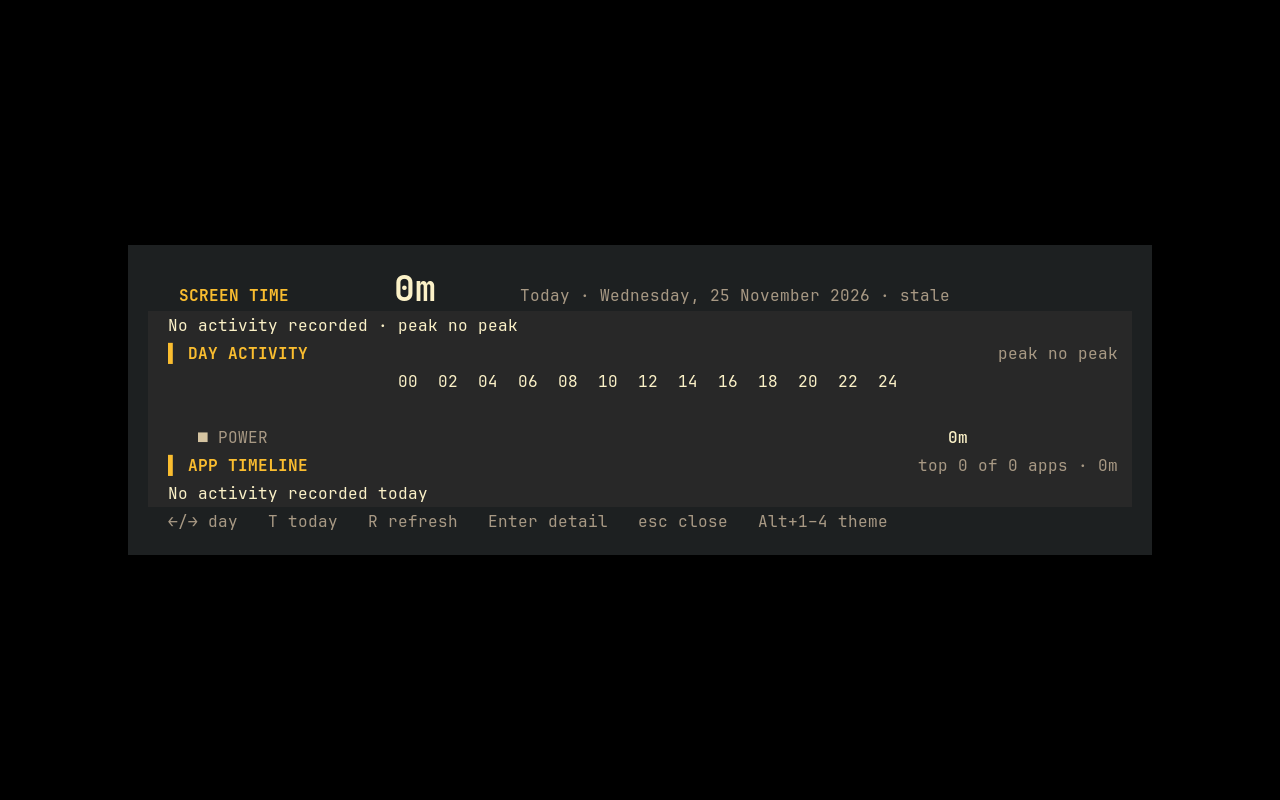
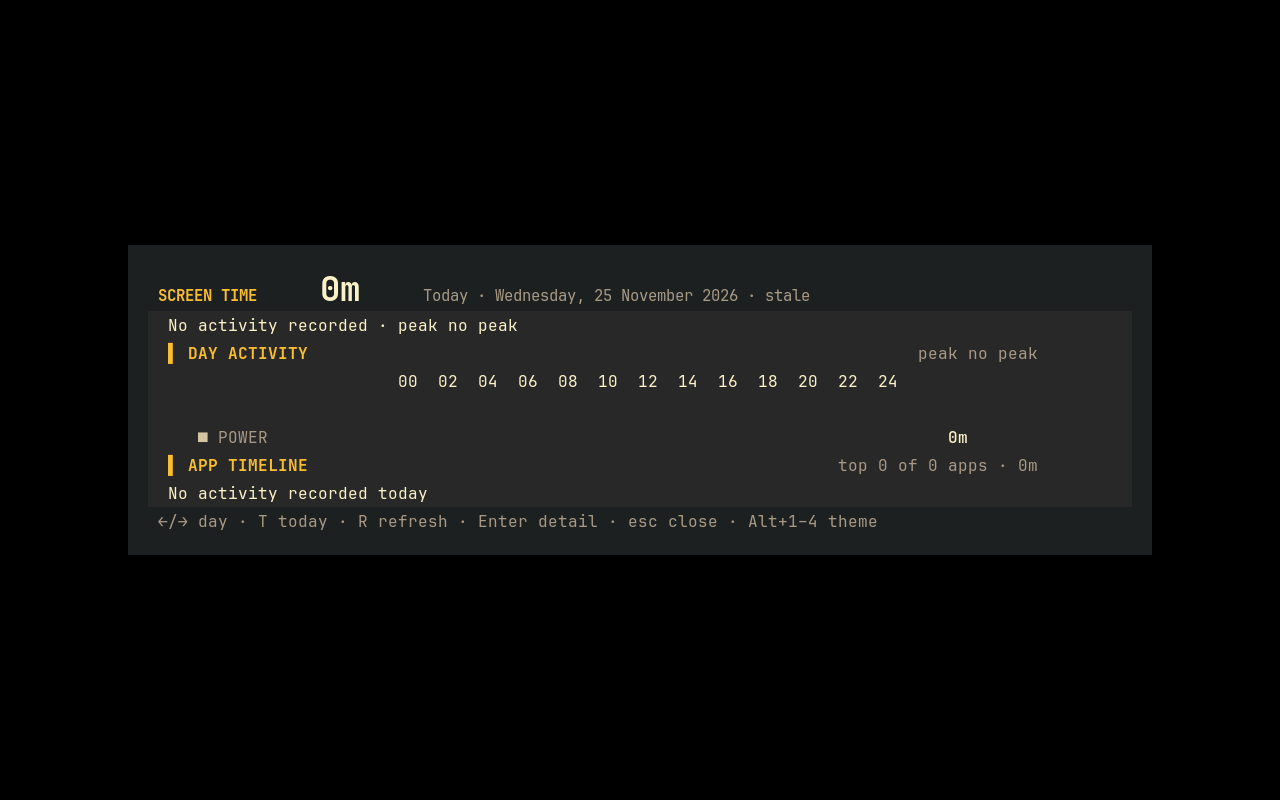
feat(ui): render Screen Time chrome with the shared UI kit

diff --git a/crates/screen-time/src/render.rs b/crates/screen-time/src/render.rs
@@ -3,7 +3,7 @@ use crate::sessions::{display_label, display_name};
 use crate::theme::Theme;
 use crate::timeutil::{self, SLOT_COUNT};
 use crate::view::{APP_PAGE_SIZE, AppRow, DayView, DetailView, OtherRow, TOP_APPS};
-use rofi_core::Category;
+use rofi_core::{Category, ui};
 
 const NAME_WIDTH: usize = 16;
 const PREFIX_WIDTH: usize = 24;
@@ -185,10 +185,9 @@ pub(crate) fn render_main_with_theme(view: &DayView, mode: OutputMode, theme: &T
         format!(" No activity recorded · peak {peak}")
     };
     if mode == OutputMode::Rofi {
-        // The message widget measures mixed font sizes independently of list rows.
-        out.push_str(&format!(
-            "\0message\x1f <span size=\"{}pt\">{title}</span>    {total_line}    <span size=\"{}pt\">{date}</span>\n",theme.font_size,theme.font_size
-        ));
+        let meta = format!("{relative}{long_date}{stale}");
+        let header = ui::header_inline("SCREEN TIME", &total, &meta, theme);
+        out.push_str(&format!("\0message\x1f{header}\n"));
         let extra = usize::from(show_other || list_slots == 0);
         // The Rofi main view omits the three 4pt spacer rows used by plain
         // output. Six fixed rows + app rows + one footer row fit five apps.
@@ -307,22 +306,22 @@ pub(crate) fn render_main_with_theme(view: &DayView, mode: OutputMode, theme: &T
     if mode != OutputMode::Rofi {
         emit_spacer(&mut out, mode);
     }
+    let mut keys = vec![
+        ("←/→", "day"),
+        ("T", "today"),
+        ("R", "refresh"),
+        ("Enter", "detail"),
+        ("esc", "close"),
+    ];
+    if mode == OutputMode::Rofi {
+        if paginated {
+            keys.insert(1, ("Alt+↓/↑", "page"));
+        }
+        keys.push(("Alt+1–4", "theme"));
+    }
     emit(
         &mut out,
-        &format!(
-            " {}",
-            role_span(
-                if mode == OutputMode::Rofi && paginated {
-                    "←/→ day   Alt+↓/↑ page   T today   R refresh   Enter detail   esc close   Alt+1–4 theme"
-                } else if mode == OutputMode::Rofi {
-                    "←/→ day   T today   R refresh   Enter detail   esc close   Alt+1–4 theme"
-                } else {
-                    "←/→ day   T today   R refresh   Enter detail   esc close"
-                },
-                &theme.muted,
-                mode,
-            )
-        ),
+        &footer_hint(&keys, theme, mode),
         RowMeta::NonSelectable,
         mode,
     );
@@ -801,23 +800,22 @@ pub(crate) fn render_detail_with_theme(
     }
     let trend_end = body.lines().count() - 1;
     emit_spacer(&mut body, mode);
+    let mut keys = vec![("←/→", "day"), ("Backspace", "back"), ("Esc", "close")];
+    if mode == OutputMode::Rofi {
+        keys.push(("Alt+1–4", "theme"));
+    }
     emit(
         &mut body,
-        if mode == OutputMode::Rofi {
-            " ←/→ day   Backspace back   Esc close   Alt+1–4 theme"
-        } else {
-            " ←/→ day   Backspace back   Esc close"
-        },
+        &footer_hint(&keys, theme, mode),
         RowMeta::App("__back__".to_owned()),
         mode,
     );
 
     if mode == OutputMode::Rofi {
-        let font_size = theme.font_size;
         let lines = body.lines().count();
+        let header = ui::header_inline(&label, &total, &subtitle, theme);
         format!(
-            "\0message\x1f <span size=\"{font_size}pt\">{title}</span>  <span weight=\"700\">{total}</span>  <span size=\"{font_size}pt\" foreground=\"{}\">{subtitle}</span>\n\0theme\x1flistview {{ lines: {lines}; }}\n\0use-hot-keys\x1ftrue\n\0markup-rows\x1ftrue\n\0no-custom\x1ftrue\n\0active\x1f{activity_start}-{activity_end},{burst_start}-{burst_end},{trend_start}-{trend_end}\n\0keep-selection\x1ftrue\n\0new-selection\x1f{}\n{body}",
-            theme.muted,
+            "\0message\x1f{header}\n\0theme\x1flistview {{ lines: {lines}; }}\n\0use-hot-keys\x1ftrue\n\0markup-rows\x1ftrue\n\0no-custom\x1ftrue\n\0active\x1f{activity_start}-{activity_end},{burst_start}-{burst_end},{trend_start}-{trend_end}\n\0keep-selection\x1ftrue\n\0new-selection\x1f{}\n{body}",
             lines - 1
         )
     } else {
@@ -863,13 +861,28 @@ fn section_header(
     theme: &Theme,
     mode: OutputMode,
 ) -> String {
+    if mode == OutputMode::Rofi {
+        let line = ui::section(label, meta, width.saturating_sub(1), theme);
+        return panel_line(&format!(" {line}"), width, theme, mode);
+    }
     let left_plain = format!(" ▌ {label}");
     let padding = width.saturating_sub(visible_len(&left_plain) + visible_len(meta));
-    let marker = styled_span("▌", &theme.accent, Some("700"), mode);
-    let title = styled_span(label, &theme.accent, Some("700"), mode);
-    let meta = role_span(meta, &theme.muted, mode);
-    let line = format!(" {marker} {title}{}{meta}", " ".repeat(padding));
+    let line = format!("{left_plain}{}{meta}", " ".repeat(padding));
     panel_line(&line, width, theme, mode)
+}
+
+fn footer_hint(keys: &[(&str, &str)], theme: &Theme, mode: OutputMode) -> String {
+    if mode == OutputMode::Rofi {
+        ui::hint(keys, theme)
+    } else {
+        format!(
+            " {}",
+            keys.iter()
+                .map(|(key, description)| format!("{key} {description}"))
+                .collect::<Vec<_>>()
+                .join("   ")
+        )
+    }
 }
 
 /// Display width for our small Pango markup subset. Tags add no columns and

diff --git a/crates/screen-time/tests/golden.rs b/crates/screen-time/tests/golden.rs
@@ -81,6 +81,19 @@ fn plain_output_has_no_rofi_metadata() {
 }
 
 #[test]
+fn rofi_uses_the_shared_ui_kit() {
+    init_tz();
+    let fixture = Fixture::new();
+    let actual = fixture.render_env(&["render", "--format", "rofi"], &[("ROFI_RETV", "0")]);
+    assert!(actual.contains("SCREEN TIME"), "{actual}");
+    assert!(actual.contains("\u{258c} DAY ACTIVITY"), "{actual}");
+    assert!(actual.contains("\u{258c} APP TIMELINE"), "{actual}");
+    assert!(actual.contains("Alt+1\u{2013}4 theme"), "{actual}");
+    assert!(actual.contains("\u{00b7}"), "{actual}");
+    assert!(actual.contains("foreground='#"), "{actual}");
+}
+
+#[test]
 fn rofi_protocol_marks_rows_and_carries_app_info() {
     init_tz();
     let fixture = Fixture::new();
@@ -166,8 +179,8 @@ fn matugen_palette_updates_section_data_colors_without_restart() {
         rofi_theme.display()
     ));
     let actual = fixture.render_env(&["render", "--format", "rofi"], &[("ROFI_RETV", "0")]);
-    assert!(actual.contains("foreground=\"#aaccff\""), "{actual}");
-    assert!(actual.contains("foreground=\"#66aacc\""), "{actual}");
+    assert!(actual.contains("#aaccff"), "{actual}");
+    assert!(actual.contains("#66aacc"), "{actual}");
     let theme = fixture.render(&["render", "--format", "rofi-theme"]);
     assert!(theme.contains("@theme \""), "{theme}");
     assert!(theme.contains("font: \"Palette Mono 14\""), "{theme}");
@@ -189,8 +202,8 @@ fn matugen_palette_updates_section_data_colors_without_restart() {
     )
     .unwrap();
     let updated = fixture.render_env(&["render", "--format", "rofi"], &[("ROFI_RETV", "0")]);
-    assert!(updated.contains("foreground=\"#aabbcc\""), "{updated}");
-    assert!(updated.contains("foreground=\"#ddeeff\""), "{updated}");
+    assert!(updated.contains("#aabbcc"), "{updated}");
+    assert!(updated.contains("#ddeeff"), "{updated}");
 }
 
 #[test]

diff --git a/crates/rofi-core/src/ui.rs b/crates/rofi-core/src/ui.rs
@@ -33,6 +33,22 @@ pub fn header(label: &str, hero: &str, meta: &str, theme: &Theme) -> String {
     )
 }
 
+/// One-line header for apps whose Rofi height is fixed: `LABEL  HERO  META`
+/// with explicit sizes so a large hero never leaks into the meta text.
+pub fn header_inline(label: &str, hero: &str, meta: &str, theme: &Theme) -> String {
+    let label = escape_markup(&label.to_uppercase());
+    let hero = escape_markup(hero);
+    let meta = escape_markup(meta);
+    format!(
+        "<span foreground='{accent}' weight='bold' size='12000'>{label}</span>   \
+         <span foreground='{text}' weight='bold' size='26000'>{hero}</span>   \
+         <span foreground='{muted}' size='12000'>{meta}</span>",
+        accent = theme.accent,
+        text = theme.text,
+        muted = theme.muted,
+    )
+}
+
 /// `▌ TITLE` on the left, muted meta right-aligned to `width` cells.
 pub fn section(label: &str, meta: &str, width: usize, theme: &Theme) -> String {
     let label = format!("\u{258c} {}", label.to_uppercase());
